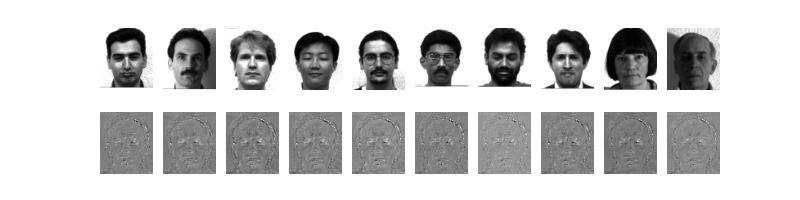
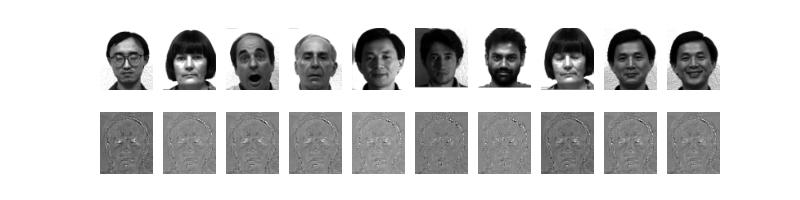
kernel PCA

diff --git a/hw7/ML_hw7_PCA_LDA.py b/hw7/ML_hw7_PCA_LDA.py
@@ -77,6 +77,20 @@ def LDA(data, label):
     S_w = np.zeros((dimension, dimension))
     S_b = np.zeros((dimension, dimension))
     m = np.mean(data, axis = 0)
+
+    # scatter_mean = np.zeros((15, dimension))
+    # for i in range(135):
+    #     scatter_mean[label[i]-1, :] += data[i, :]
+    # scatter_mean = scatter_mean / 9
+
+    # for i in range(135):
+    #     within_diff = scatter_mean[label[i]-1, :] - data[i, :]
+    #     S_w += within_diff.T @ within_diff
+    
+    # for i in range(15):
+    #     between_diff = scatter_mean[i, :] - m
+    #     S_b += 9 * between_diff.T @ between_diff
+
     for subject in trange(1, 16):
         id = np.where(label == subject)
         scatter = data[id]
@@ -85,7 +99,12 @@ def LDA(data, label):
         S_w += within_diff.T @ within_diff
         between_diff = mj - m
         S_b += len(id) * between_diff.T @ between_diff
-    
+
+        # xi = data[subject * 9 : (subject + 1) * 9]
+        # mj = np.mean(xi, axis=0)
+        # S_w += (xi - mj).T @ (xi - mj)
+        # S_b += len(xi) * (mj - m).reshape(-1, 1) @ (mj - m).reshape(1, -1)
+
     S_w_S_b = np.linalg.pinv(S_w) @ S_b
     eigenvalue, eigenvector = np.linalg.eig(S_w_S_b)
 
@@ -97,6 +116,37 @@ def LDA(data, label):
         W[:, i] = W[:, i] / np.linalg.norm(W[:, i])
 
     return W
+
+def linear_kernel(u, v):
+    return u @ v.T
+
+def RBFkernel(u, v):
+    gamma = 1e-10
+    dist = np.sum(u ** 2, axis=1).reshape(-1, 1) + np.sum(v ** 2, axis=1) - 2 * u @ v.T
+
+    return np.exp(-gamma * dist)
+
+def kernelPCA(data, kernel_type):
+    one = np.ones((135, 135)) / 135
+
+    if kernel_type == 'rbf':
+        kernel = RBFkernel(data, data)
+    elif kernel_type == 'linear':
+        kernel = linear_kernel(data, data)
+    else:
+        print('False kernel type input!')
+    
+    #kernel = kernel - one @ kernel - kernel @ one + one @ kernel @ one
+    eigenvalue, eigenvector = np.linalg.eigh(kernel)
+    
+    index = np.argsort(-eigenvalue)
+    eigenvector = eigenvector[:, index]
+
+    W = eigenvector[:, :25]
+    for i in range(W.shape[1]):
+        W[:, i] = W[:, i] / np.linalg.norm(W[:, i])
+
+    return W, kernel
 
 def print_eigen_fisher_face(W, face):
     fig = plt.figure(figsize=(5, 5))
@@ -148,6 +198,33 @@ def predict(train_img, train_label, test_img, test_label, W):
     print(f'error rate: {error / 30 * 100}%')
     return
 
+def predict_kernel(train_img, train_label, test_img, test_label, W, train_kernel, kernel_type):
+    k = 5
+    error = 0
+
+    if kernel_type == 'rbf':
+        test_kernel = RBFkernel(test_img, train_img)
+    elif kernel_type == 'linear':
+        test_kernel = linear_kernel(test_img, train_img)
+    else:
+        print('False kernel type input!')
+
+    xW_train = train_kernel @ W
+    xW_test = test_kernel @ W
+
+    for test in range(30):
+        distance = np.zeros(135)
+        for train in range(135):
+            distance[train] = np.sum((xW_test[test] - xW_train[train]) ** 2)
+        neighbors = np.argsort(distance)[:k]
+        prediction = np.argmax(np.bincount(train_label[neighbors]))
+        if test_label[test] != prediction:
+            error += 1
+
+    print(f'error rate: {error / 30 * 100}%')
+    
+    return
+
 TRAINING_PATH = './Yale_Face_Database/Training'
 TESTING_PATH = './Yale_Face_Database/Testing'
 
@@ -159,13 +236,20 @@ test_img, test_filename, test_label = load_imgs(TESTING_PATH)
 train_img_compress = resize_img(train_img) #77 * 65
 test_img_compress = resize_img(test_img)
 
-if mode == 1:
+if mode == 1:   #PCA
     W = PCA(train_img_compress)
     print_eigen_fisher_face(W, 'eigenface')
     reconstruct_face(W, train_img_compress, 'eigenface')
     predict(train_img_compress, train_label, test_img_compress, test_label, W)
-elif mode == 2:
+elif mode == 2: #LDA
     W = LDA(train_img_compress, train_label)
     print_eigen_fisher_face(W, 'fisherface')
     reconstruct_face(W, train_img_compress, 'fisherface')
     predict(train_img_compress, train_label, test_img_compress, test_label, W)
+elif mode == 3: #kernel PCA
+    kernel_type = 'rbf'
+    mean = np.mean(train_img_compress, axis=0)
+    centered_train = train_img_compress - mean
+    centered_test = test_img_compress - mean
+    W, train_kernel = kernelPCA(centered_train, kernel_type)
+    predict_kernel(centered_train, train_label, centered_test, test_label, W, train_kernel, kernel_type)
